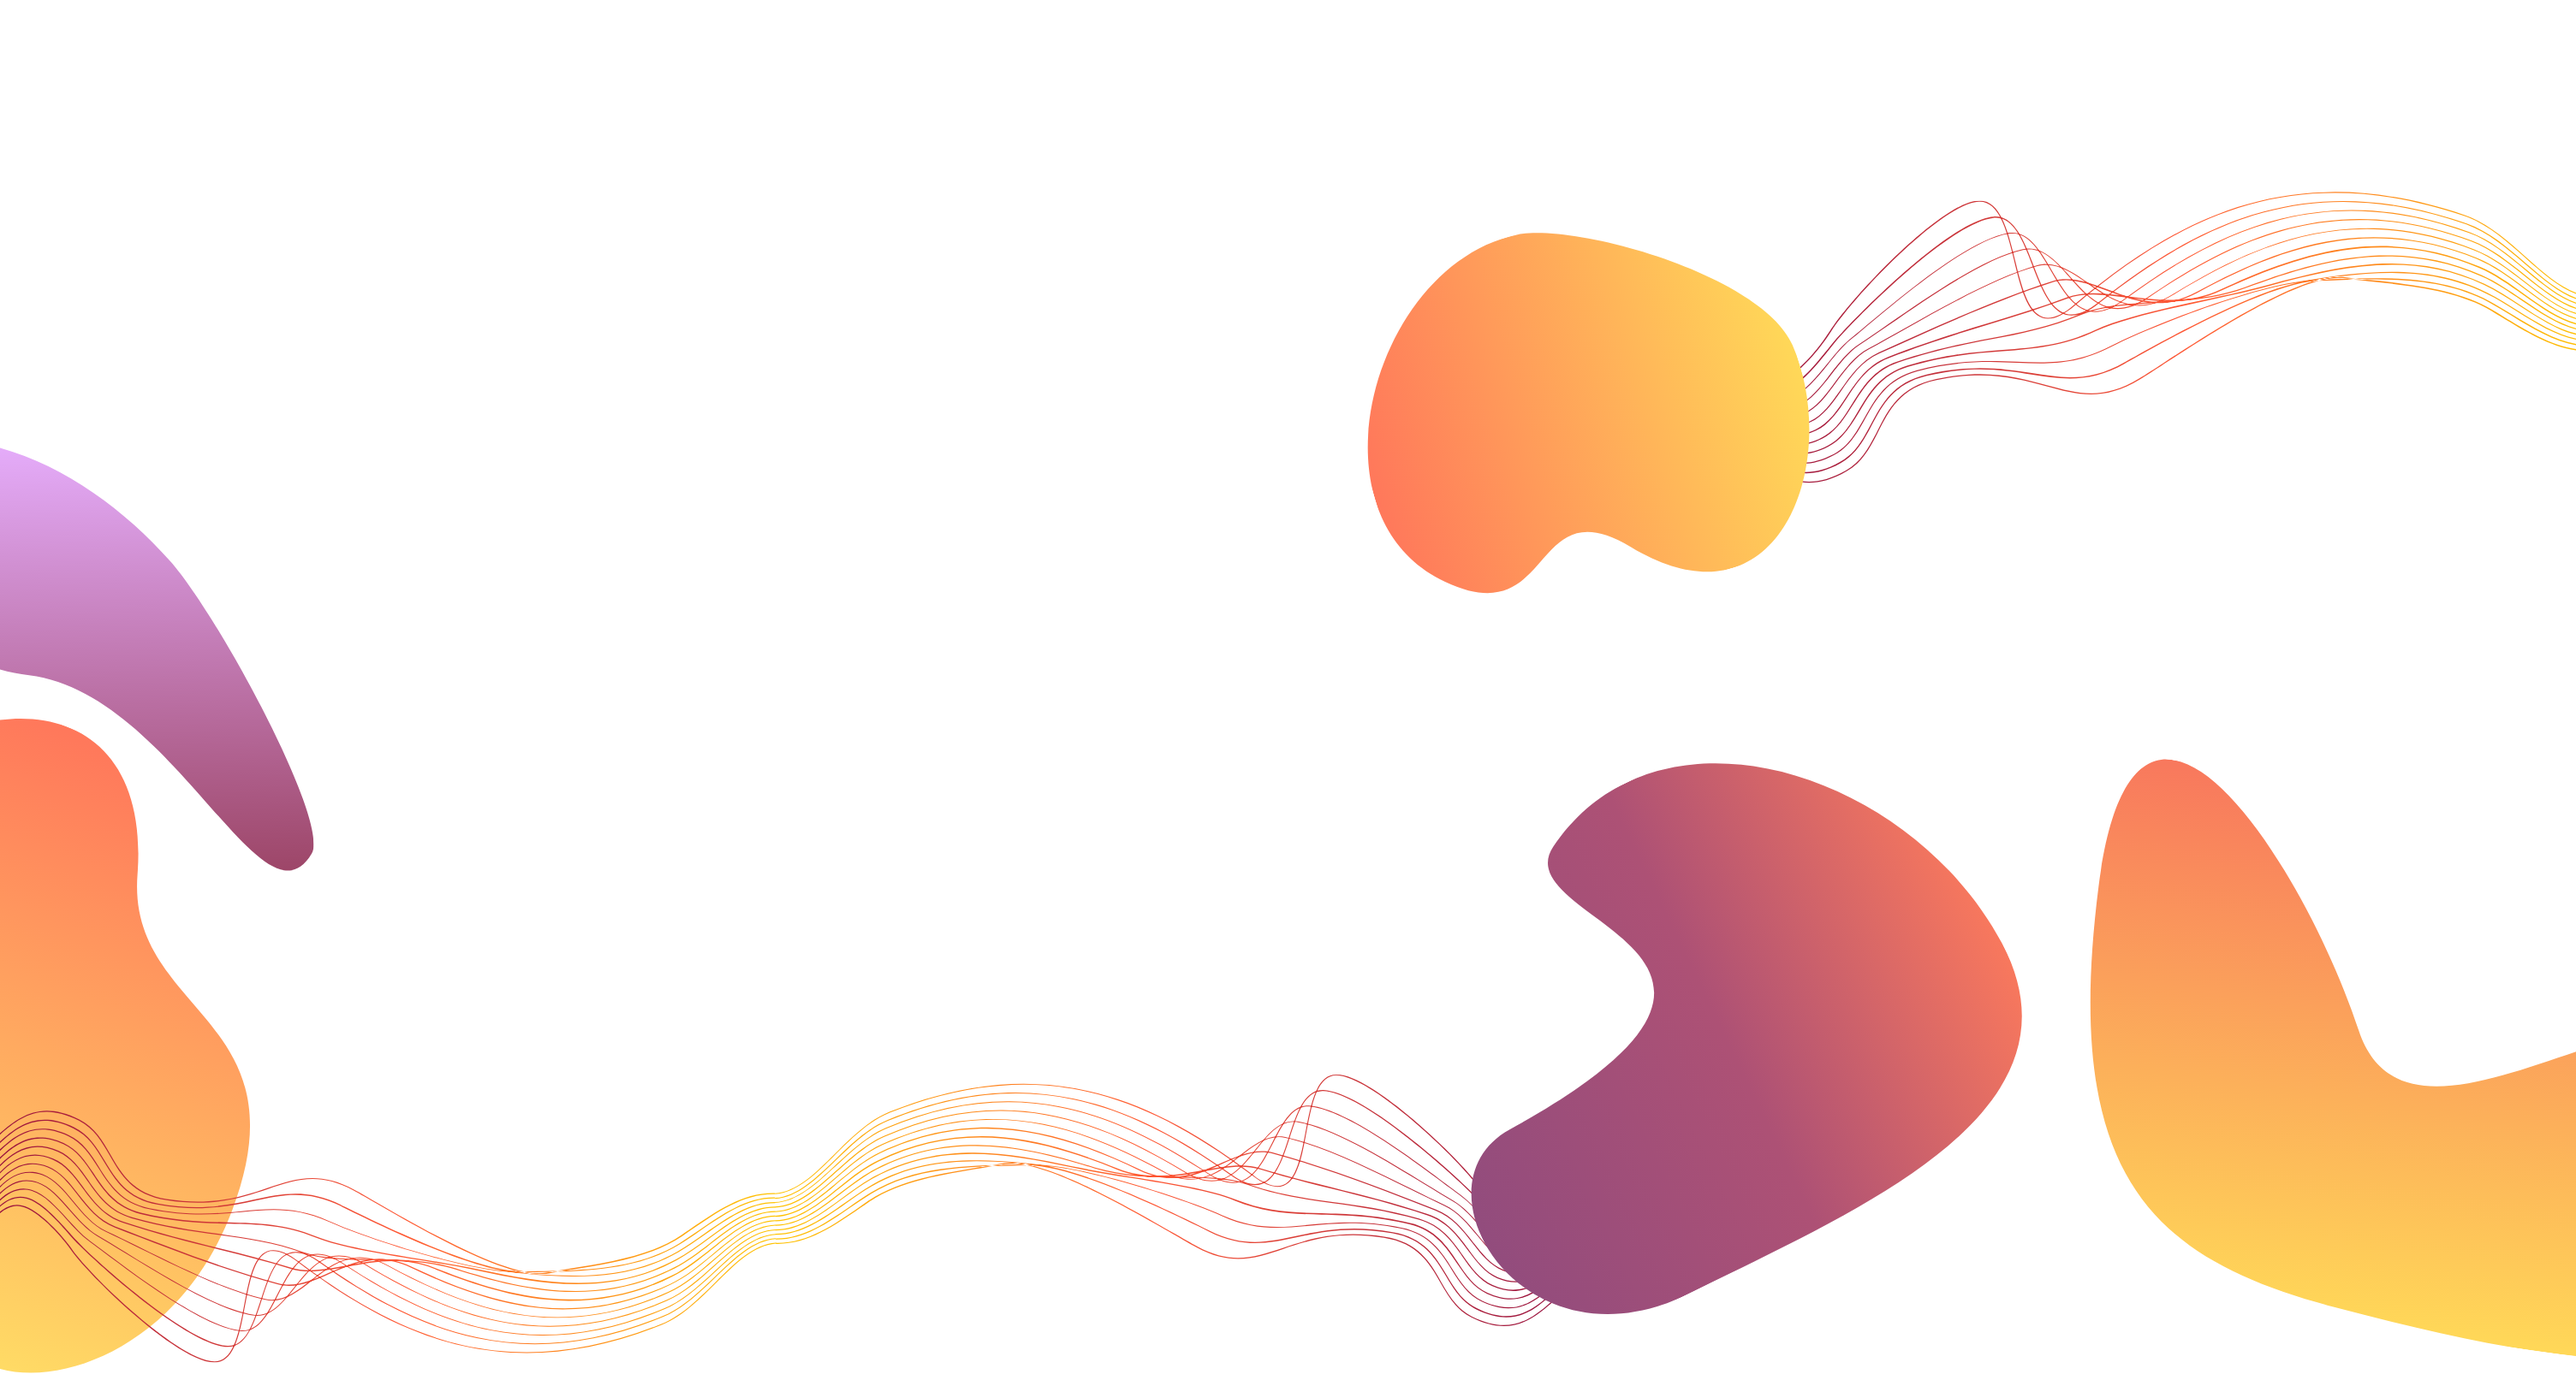
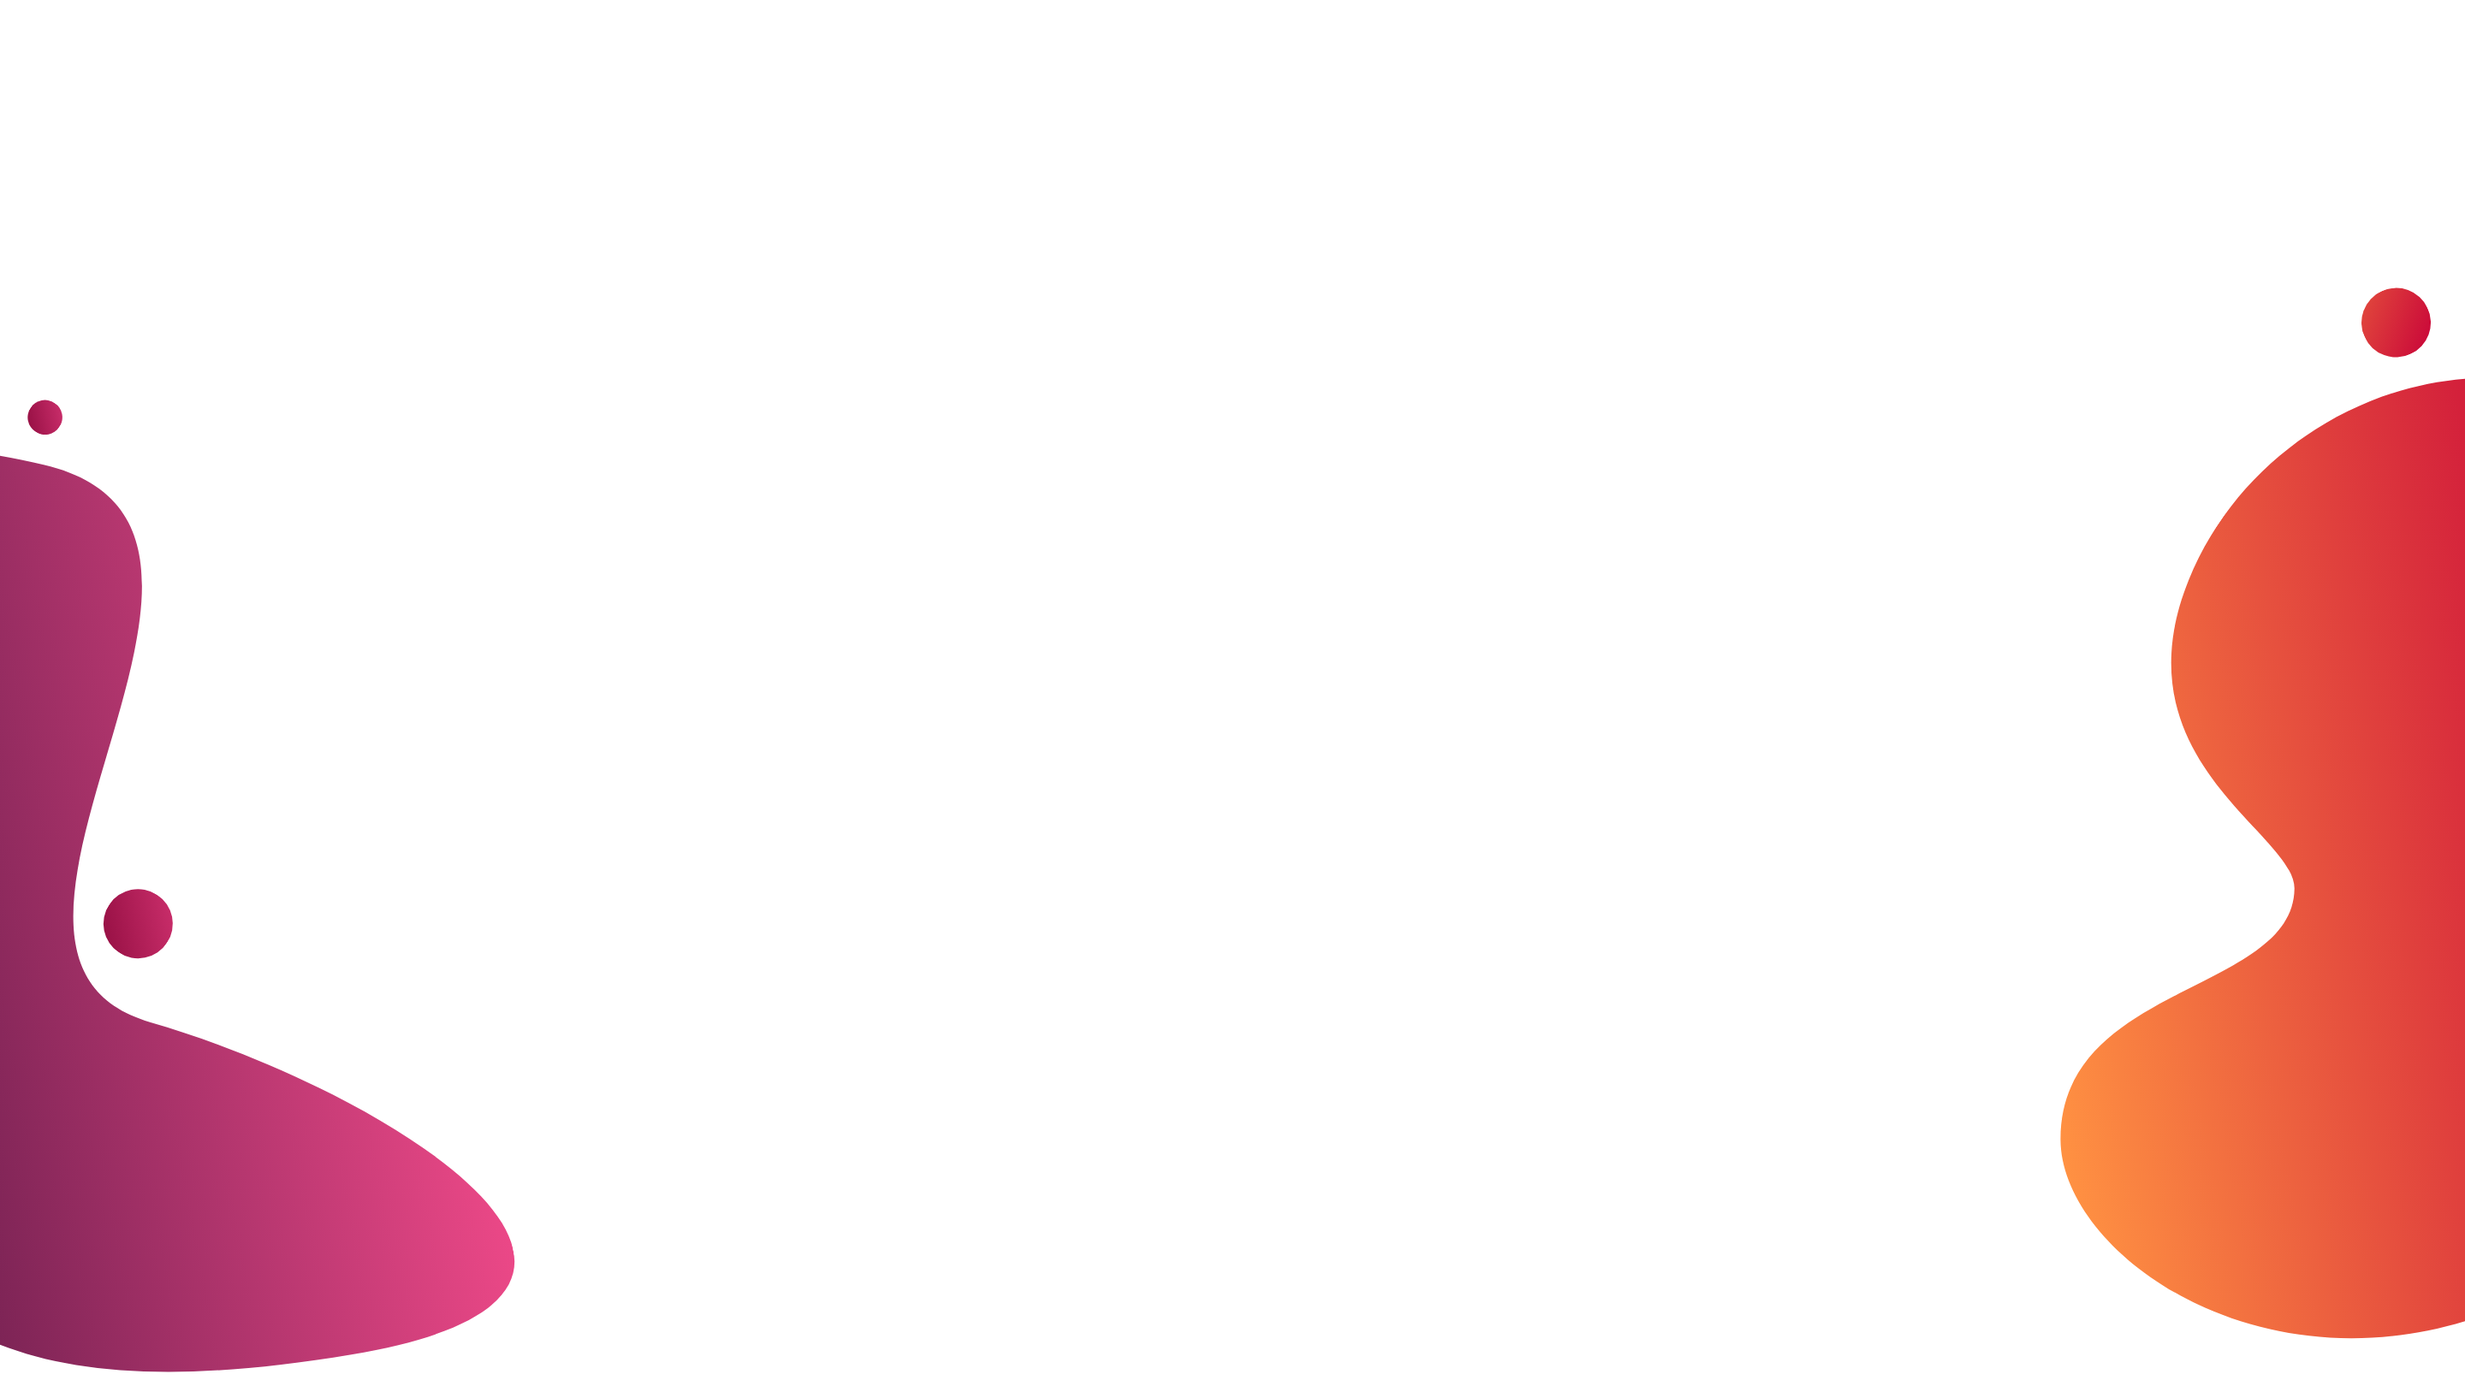
probar github page

Changed region(s): [[0.0, 0.1235, 1.0, 1.0], [0.75, 0.1543, 0.7812, 0.1852]]

diff --git a/src/style.css b/src/style.css
@@ -89,7 +89,7 @@ nav .menu a:hover {
   padding: 0 40px;
   align-items: center;
   font-size: 15px;
-  background: rgb(255,255,255);
+  background: rgb(255, 255, 255);
   background-image: url("img/wall.png");
   background-repeat: no-repeat;
   background-size: cover;
@@ -102,10 +102,10 @@ nav .menu a:hover {
   justify-content: space-evenly;
   padding: 0 40px;
   align-items: center;
-/*   background-image: url("img/.png");
+  background-image: url("img/wall2.png");
   background-repeat: no-repeat;
   background-size: cover;
-  background-position: bottom left; */
+  background-position: bottom left;
 }
 
 #containerUs {
@@ -116,9 +116,9 @@ nav .menu a:hover {
   justify-content: space-evenly;
   padding: 0 40px;
   align-items: center;
-  background-image: url("img/mujeres.png");
+  background-image: url("img/wall3.png");
   background-repeat: no-repeat;
-  background-size: 100%;
+  background-size: cover;
   background-position: bottom left;
 }
 

diff --git a/src/index.html b/src/index.html
@@ -88,6 +88,8 @@
             <p class="getInto">
               Por favor ingresa el número de 16 dígitos de tu tarjeta
             </p>
+              </div>
+            </div>
           </div>
           <div id="Card">
             <input
